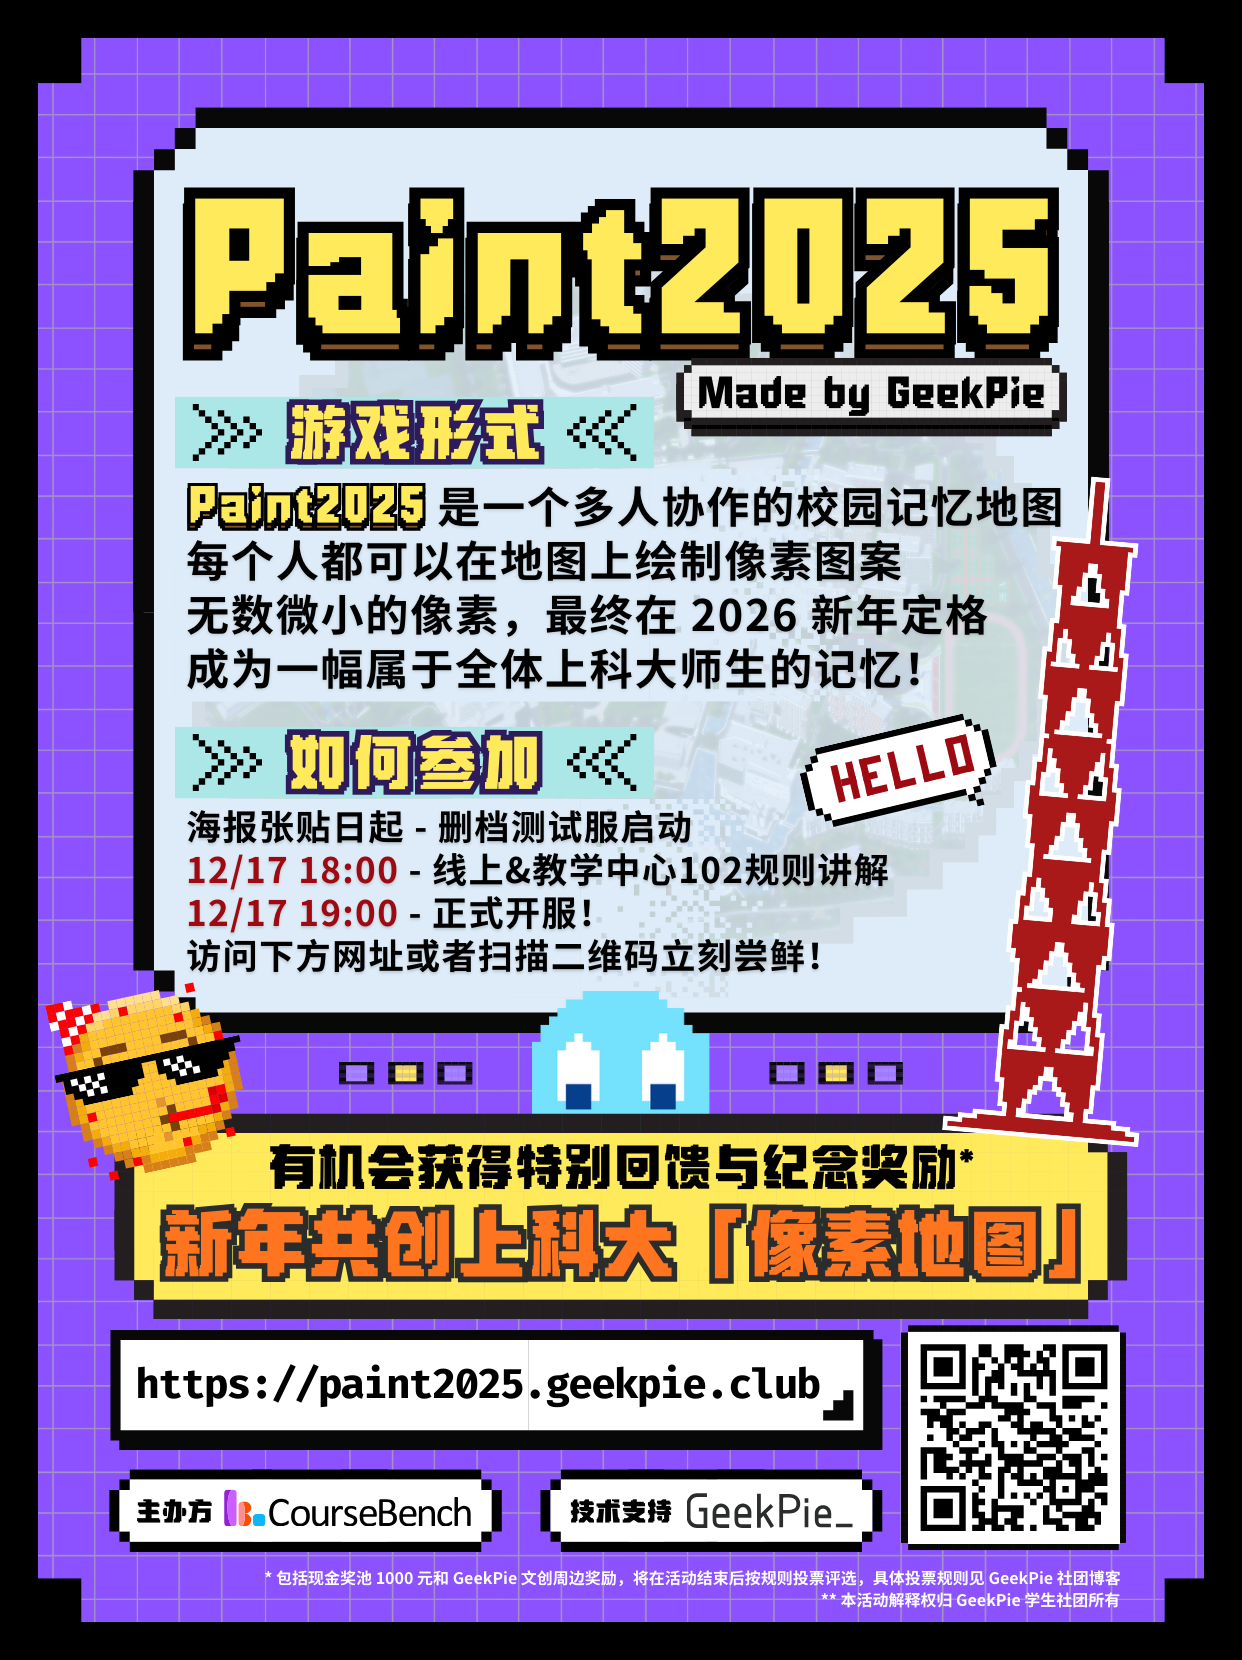
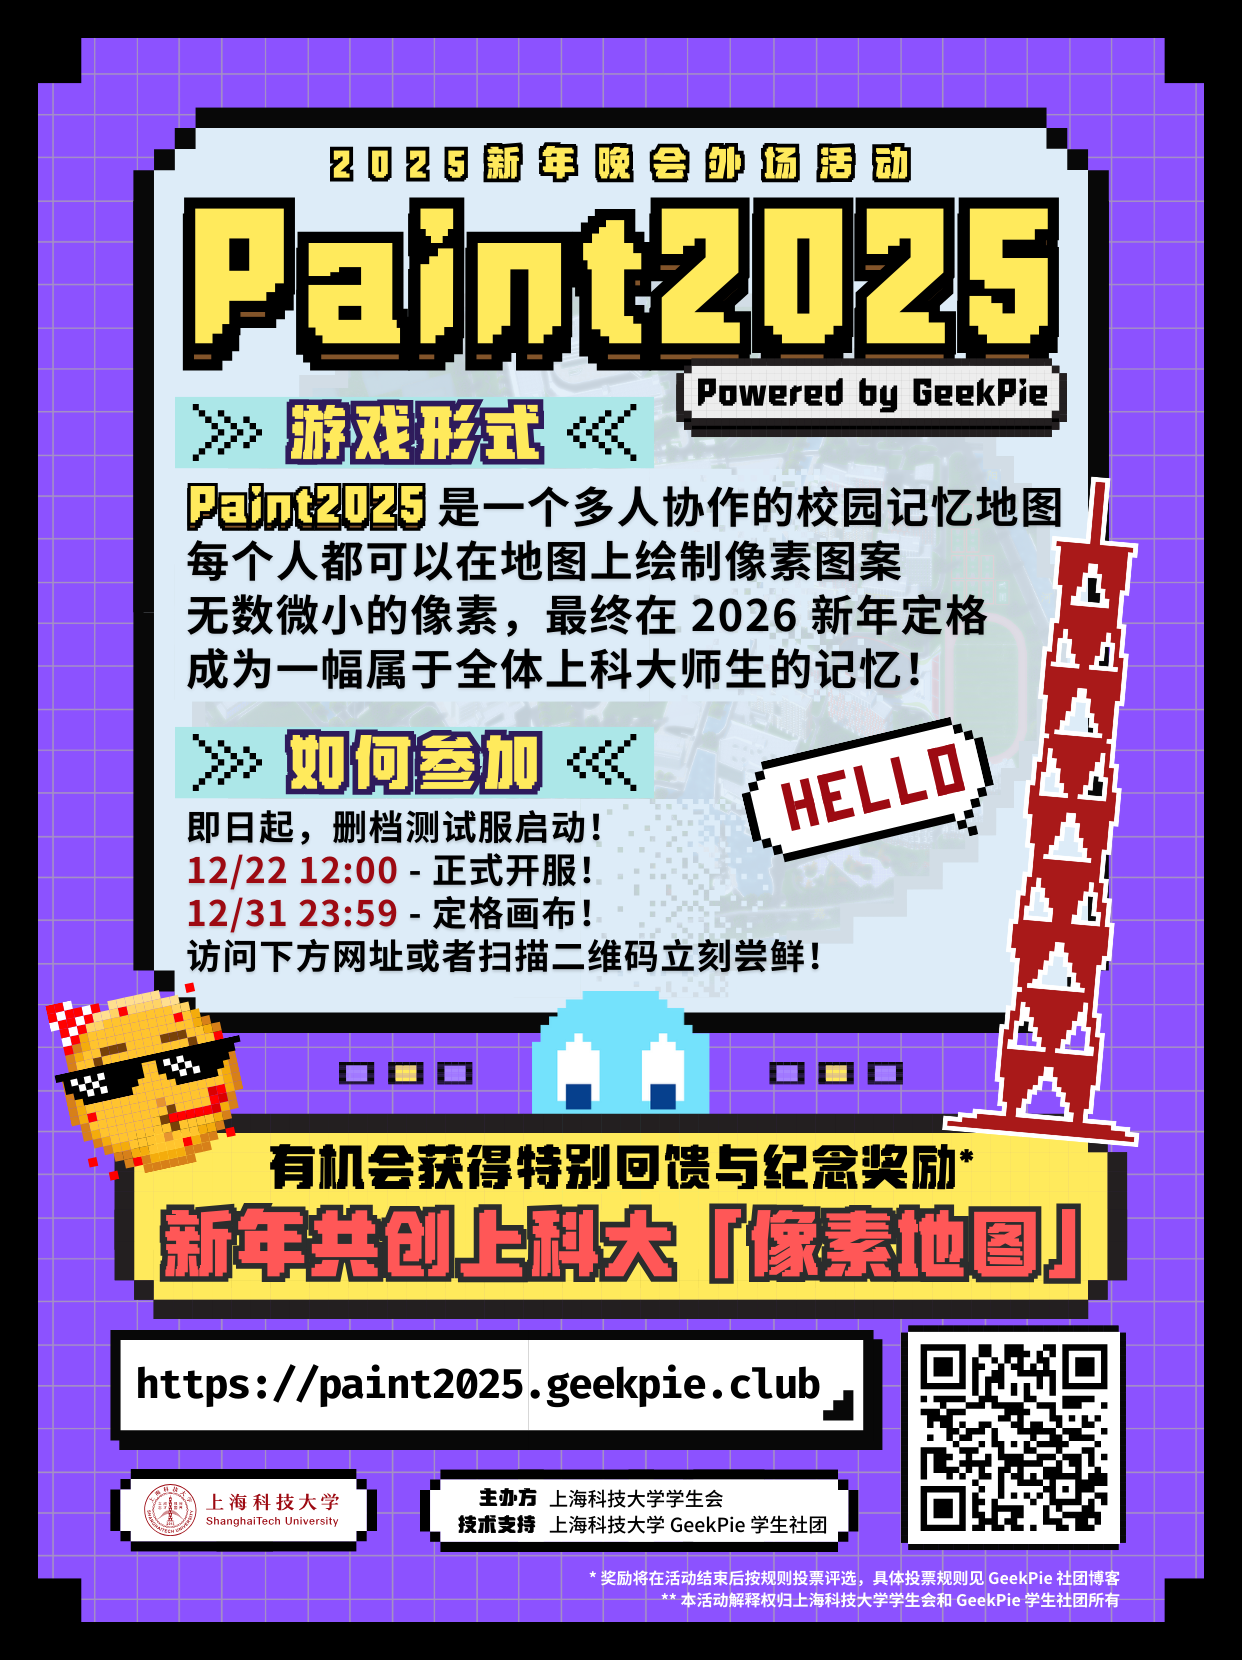
doc: paint2025 update

diff --git a/event/2025-12-17-paint2025.md b/event/2025-12-17-paint2025.md
@@ -19,6 +19,24 @@ draft: true
 
 # Paint2025 新年绘板
 
-Paint2025 是一个多人在线协作的画布，你可以与所有用户同时创作、覆盖、合作或对抗！共同定格 2025 年的美好回忆！
+> 2025 要被定格成什么样子？
+
+去年我们有过许多瞬间：比赛、展演、寝室的深夜讨论、图书馆的清晨打卡……今年我们把这些瞬间用像素画下来。
+
+Paint2025 是一个多人在线协作的画布（灵感来自 r/place）——在一张覆盖整个上科大的像素地图上，你可以与所有师生同时创作、覆盖、合作或对抗。画社团徽标、画你和朋友的“地盘”、画表情包；每个像素都在记录属于我们的 2025。
+
+📍活动时间：2025/12/22 12:00 开始，2026/1/1 00:00 定格画布。
+🔗 参与入口：https://paint2025.geekpie.club
+👑 奖励亮点：
+- **灵魂画手奖**（赛后评比）—— **第1名 200 RMB / 第2名 150 RMB / 第3名 100 RMB**
+- **广而告之奖** —— 转发并在问卷登记截图可获贴纸；随机抽取 2 名各 **50 RMB**
+- **天选之子奖** —— 从注册用户随机抽取 2 名，各 **50 RMB**
+🔧 玩法要点：
+- 每位玩家拥有 24 点体力，体力随时间冷却回复，冷却会逐渐加长；
+- 可选择快速发育占领大块区域，或与同伴协作/对抗进行像素博弈；
+- 开发者/高级玩家可以编写自动化脚本（注意遵守活动规则）。
+📂 项目仓库：`HeZeBang/DrawingPlace`（欢迎感兴趣的同学贡献想法/提 PR）
+
+来吧，把你的像素留在校园的地图上，让我们在新年一起回顾这张属于上科大的 2025。
 
 ![Poster](../res/paint2025.png)
